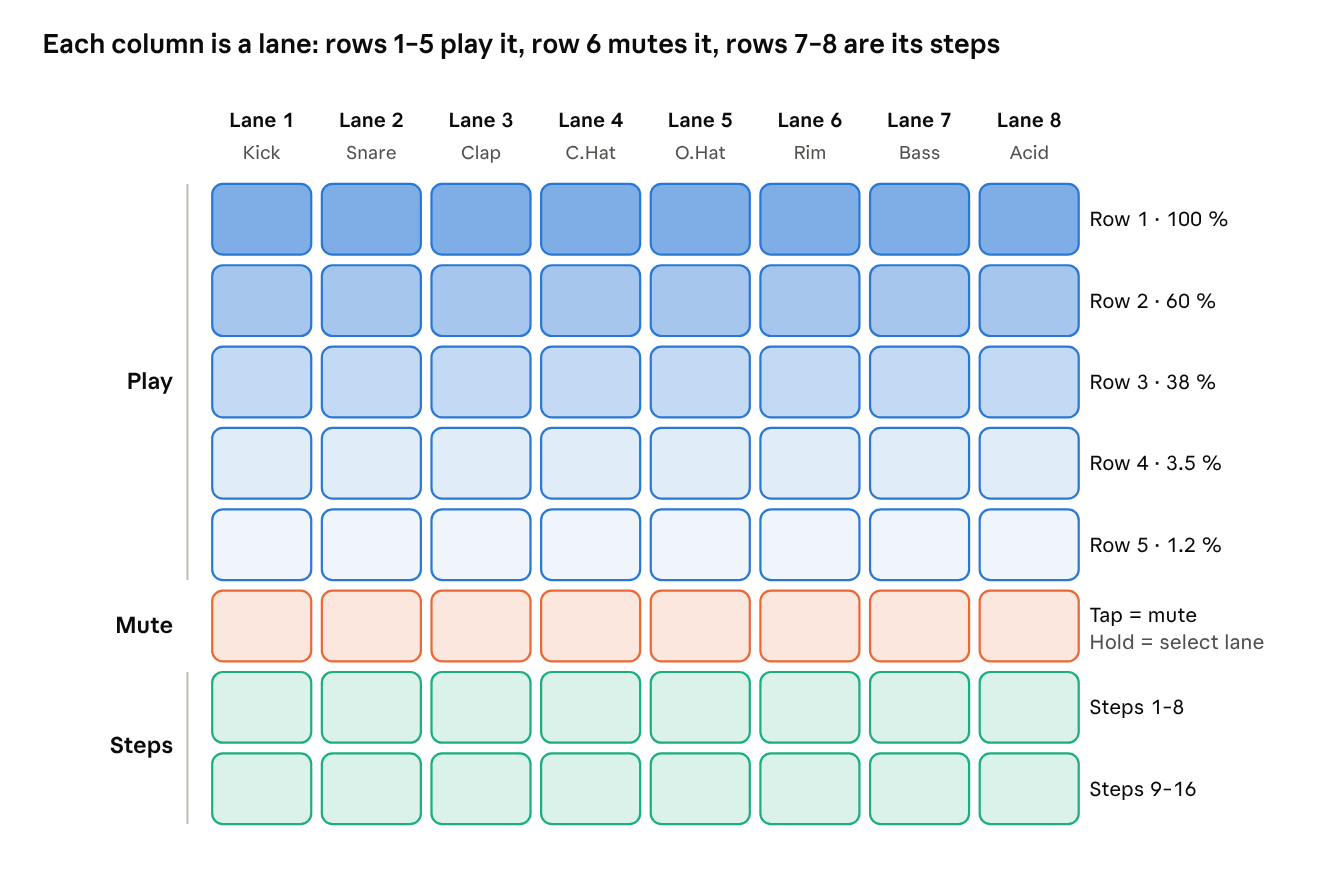
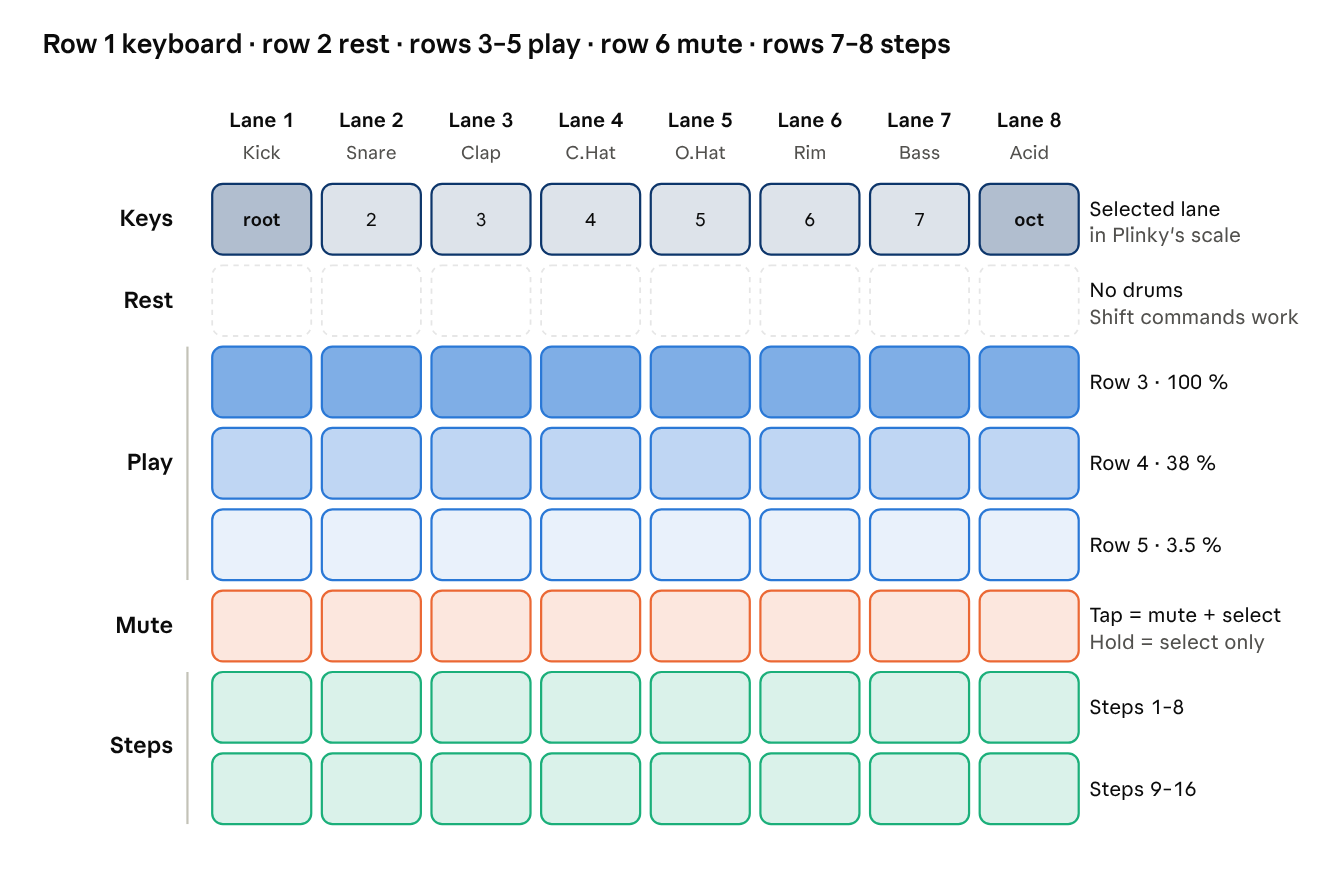
skamba manual: new drum grid picture for v.s-n.0.12

diff --git a/docs/skamba/MANUAL.md b/docs/skamba/MANUAL.md
@@ -38,9 +38,7 @@ To leave Groovebox mode, use Params 1 + that pad again ("groove off"). Your patt
 
 With Groovebox mode on, the 64 pads become the drum grid. Each column is one drum lane (the default kit is shown under the lane numbers).
 
-> The picture below still shows the v.s-n.0.11 layout (five velocity rows). The list underneath is the current one.
-
-![Drum grid: 8 lanes, velocity rows, mute row, 16 steps](drum-grid.png)
+![Drum grid: keyboard row, rest row, 3 velocity rows, mute row, 16 steps](drum-grid.png)
 
 - **Row 1 is a keyboard** for the selected lane. Its 8 pads play the lane's sound up Plinky's chosen scale, from the root (left) to the octave (right). It suits Bass and Acid best, but works on any drum. Its lights always glow dimly, with the root and octave a little brighter.
 - **Row 2 does nothing.** It's a resting place, so a hand playing the keyboard can't hit a drum by accident. Shift-button commands still work on it as usual.
